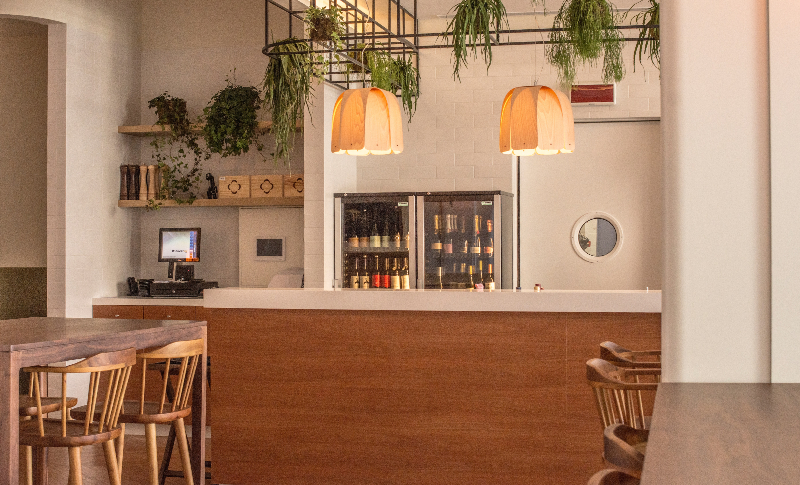
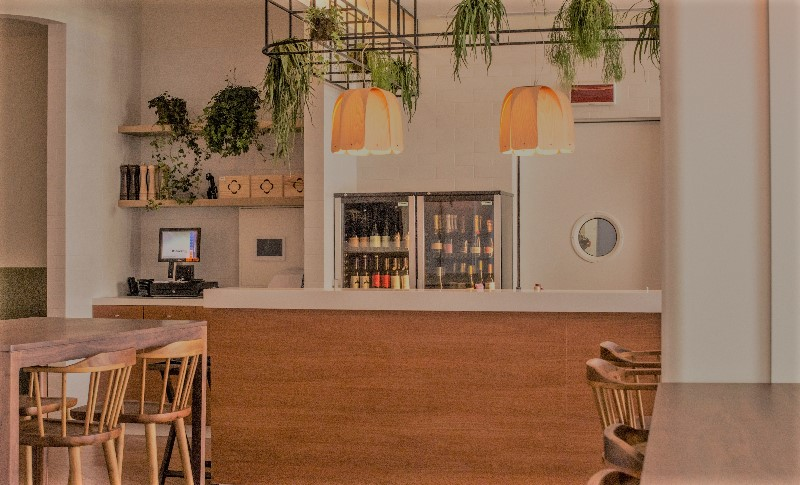
Modificacion de las imagenes y colores del sitio. Close #2.

diff --git a/css/style.css b/css/style.css
@@ -12,7 +12,7 @@ body {
 }
 
 .container {
-  width: 90%;
+  width: 70%;
   max-width: 1000px;
   margin: auto;
   overflow: hidden;
@@ -21,7 +21,7 @@ body {
 /*********************Header*********************/
 header {
   width: 100%;
-  background-image: url("../img/cover.jpg");
+  background-image: url("../img/coverEdited.jpg");
   background-size: cover;
   background-attachment: fixed; /*imagen pegada a la pantalla*/
   background-position: center 0;
@@ -44,7 +44,7 @@ header .menu {
 }
 
 header .menu a {
-  color: rgb(0, 0, 0);
+  color: rgb(255, 255, 255);
   font-size: 20px;
   font-weight: 400;
   display: inline-block; /*elementos uno al lado edl otro*/
@@ -58,7 +58,7 @@ header .menu a:hover {
 
 header .texts {
   width: 100%;
-  color: rgb(1, 1, 1);
+  color: rgb(255, 255, 255);
   position: absolute; /*para chacer efecto*/
   top: 50%;
   margin-top: -52px;
@@ -79,10 +79,10 @@ header .texts h3 {
 }
 
 /*********************Header*********************/
-.main {
-  background: url("../img/textu.jpg");
+/*.main {
+  /*background: url("../img/textu.jpg");
   background-repeat: repeat;
-}
+}*/
 
 .main .about .container {
   overflow: visible; /**para que la imagen no se corte al chocar con la anterior*/
@@ -90,7 +90,7 @@ header .texts h3 {
 }
 
 .main .about .photo {
-  width: 70%;
+  width: 80%;
   position: absolute; /*como el contenedor tiene posicion relativa y la imagen absoluta la podemos poner sobre el contenedor en la pocision que queramos*/
   left: 0;
   top: -60px;
@@ -127,7 +127,7 @@ header .texts h3 {
 
 /*********************Menu*********************/
 .main .menu {
-  padding-top: 670px;
+  padding-top: 470px;
   margin-bottom: 50px;
 }
 
@@ -330,7 +330,7 @@ footer .copyright {
 
 @media screen and (max-width: 400px) {
   .man .about article h3 {
-    font-size: 34px;
+    font-size: 30px;
     margin-bottom: 10px;
   }
 
